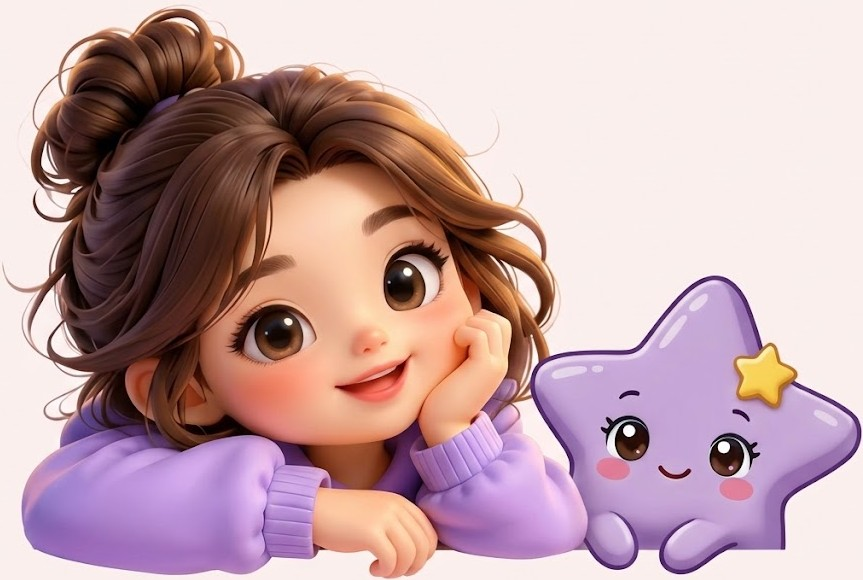
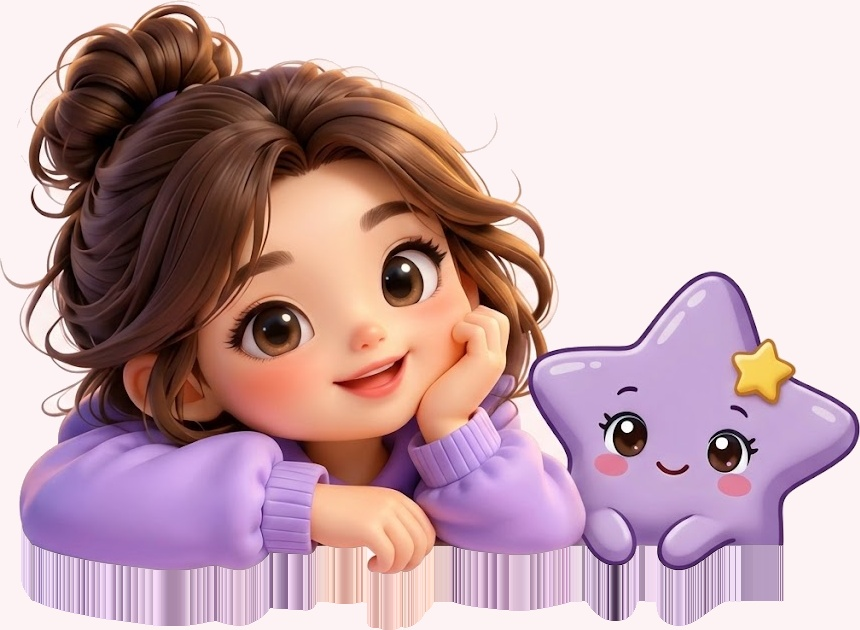
feat(v1.54.0): ilustracion 3d de login transparente y apoyo natural continuo sobre panel

diff --git a/src/index.css b/src/index.css
@@ -624,20 +624,22 @@ body[data-color-theme="zen"] {
 .characters-stage {
   position: relative;
   width: 100%;
-  height: 195px;
+  height: 215px;
   display: flex;
   justify-content: center;
   align-items: flex-end;
-  margin-top: 2px;
+  margin-top: 0;
   z-index: 3;
 }
 
 .characters-stage img {
-  width: 94%;
+  width: 98%;
+  max-width: 365px;
   height: 100%;
   object-fit: contain;
   object-position: center bottom;
-  border-radius: 20px 20px 0 0;
+  border-radius: 0;
+  pointer-events: none;
 }
 
 .form-panel {
@@ -646,7 +648,7 @@ body[data-color-theme="zen"] {
   padding: 18px 22px 18px;
   position: relative;
   z-index: 4;
-  margin-top: -14px;
+  margin-top: -26px;
   box-shadow: 
     0 -6px 14px rgba(120, 85, 150, 0.10),
     inset 0 5px 8px rgba(255, 255, 255, 0.95),

diff --git a/HISTORIAL_DE_CAMBIOS.md b/HISTORIAL_DE_CAMBIOS.md
@@ -17,6 +17,14 @@ Cualquier funcionalidad registrada aquí está blindada: ninguna IA puede elimin
 
 ## 📦 REGISTRO DE ENTREGAS Y MÓDULOS
 
+### Versión 1.54.0 - Apoyo Natural y Erradicación de Cortes en Ilustración 3D del Login
+- [x] **Aislamiento en PNG Transparente Real ([`login-3d-girl-star.png`](file:///c:/Users/User/Desktop/GeoSoft/CUENTA%20ANDERSJIVAL/CLIENTES%20WEBS/BYFIO/public/assets/login-3d-girl-star.png)):**
+  - Removido el fondo plano sólido mediante algoritmo de segmentación alfa y BFS perimetral, eliminando el recuadro opaco y los bordes rectangulares.
+  - Extendido el cuerpo inferior de las mangas y de la estrella en 55px hacia abajo para garantizar que los personajes desciendan de forma continua por detrás de la curvatura del panel.
+- [x] **Calibración de Solapamiento y Escenario ([`src/index.css`](file:///c:/Users/User/Desktop/GeoSoft/CUENTA%20ANDERSJIVAL/CLIENTES%20WEBS/BYFIO/src/index.css)):**
+  - Eliminado el `border-radius` residual en la imagen y ajustado `.characters-stage` a 215px de altura (`width: 98%`, `max-width: 365px`).
+  - Incrementado el solapamiento de `.form-panel` a `margin-top: -26px` para que el panel funcione como un reposabrazos/cuchillo 3D perfecto, logrando que la niña y la estrella se vean 100% completas y apoyadas de forma natural sin líneas de corte en ningún extremo.
+
 ### Versión 1.53.0 - Eliminación de Migas de Pan Redundantes ("by.fio inicio") en Portada
 - [x] **Limpieza del Hero Principal ([`HeroDual.tsx`](file:///c:/Users/User/Desktop/GeoSoft/CUENTA%20ANDERSJIVAL/CLIENTES%20WEBS/BYFIO/src/components/store/HeroDual.tsx)):**
   - Eliminado el bloque de navegación de migas de pan `TreeNavigation` ("by.fio > inicio") ubicado sobre el slogan "¡Transformá tu creatividad en tu mejor proyecto!".
